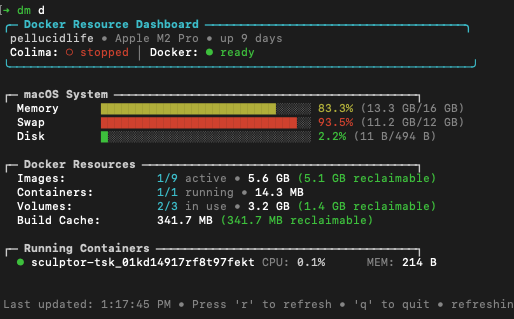
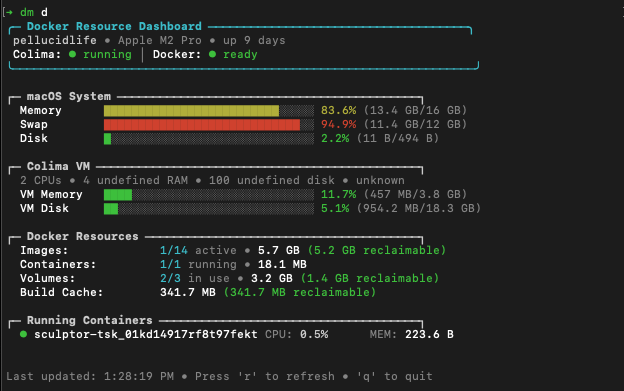
docs: update README with v0.0.1 features and screenshot
- Updated dashboard screenshot showing "Colima: ● running" (fixed status)
- Added new Colima VM metrics screenshot (dm colima command)
- Added section headers for both screenshots
- Minor formatting fix in install.sh

The dashboard screenshot now correctly shows:
- Colima: ● running (2 CPU, 4 undefined RAM)
- Docker: ● ready
- Resource usage with Host Memory, Host Disk, and VM Data Disk
- Cleanup recommendations mentioning dm sculptor

The Colima view screenshot shows:
- VM Resources: CPU Usage 0.0%, Memory 11.8%, Root Disk 5.1%
- Data Disk: 8.6% usage (8.4 GB/97.9 GB) at /mnt/lima-colima
- 84.46 GB available

🤖 Generated with [Claude Code](https://claude.com/claude-code)

diff --git a/bin/components/Header.js b/bin/components/Header.js
@@ -1,9 +1,9 @@
-import React from 'react';
-import { Box, Text } from 'ink';
-export function Header({ hostname, chip, uptime, colimaRunning, dockerRunning }) {
+import React from "react";
+import { Box, Text } from "ink";
+export function Header({ hostname, chip, uptime, colimaRunning, dockerRunning, }) {
     return (React.createElement(Box, { flexDirection: "column", marginBottom: 1 },
         React.createElement(Box, null,
-            React.createElement(Text, { bold: true, color: "cyan" }, "\u256D\u2500 Docker Resource Dashboard \u2500\u2500\u2500\u2500\u2500\u2500\u2500\u2500\u2500\u2500\u2500\u2500\u2500\u2500\u2500\u2500\u2500\u2500\u2500\u2500\u2500\u2500\u2500\u2500\u2500\u2500\u2500\u2500\u2500\u2500\u2500\u2500\u2500\u2500\u2500\u2500\u2500\u256E")),
+            React.createElement(Text, { bold: true, color: "cyan" }, "\u256D\u2500 Docker Resource Dashboard\u2500\u2500\u2500\u2500\u2500\u2500\u2500\u2500\u2500\u2500\u2500\u2500\u2500\u2500\u2500\u2500\u2500\u2500\u2500\u2500\u2500\u2500\u2500\u2500\u2500\u2500\u2500\u2500\u2500\u2500\u2500\u2500\u2500\u2500\u2500\u2500\u2500\u256E")),
         React.createElement(Box, { paddingLeft: 1 },
             React.createElement(Text, { color: "white" }, hostname),
             React.createElement(Text, { color: "gray" }, " \u2022 "),
@@ -17,5 +17,5 @@ export function Header({ hostname, chip, uptime, colimaRunning, dockerRunning })
             React.createElement(Text, null, "Docker: "),
             dockerRunning ? (React.createElement(Text, { color: "green" }, "\u25CF ready")) : (React.createElement(Text, { color: "red" }, "\u25CB unavailable"))),
         React.createElement(Box, null,
-            React.createElement(Text, { color: "cyan" }, "\u2570\u2500\u2500\u2500\u2500\u2500\u2500\u2500\u2500\u2500\u2500\u2500\u2500\u2500\u2500\u2500\u2500\u2500\u2500\u2500\u2500\u2500\u2500\u2500\u2500\u2500\u2500\u2500\u2500\u2500\u2500\u2500\u2500\u2500\u2500\u2500\u2500\u2500\u2500\u2500\u2500\u2500\u2500\u2500\u2500\u2500\u2500\u2500\u2500\u2500\u2500\u2500\u2500\u2500\u2500\u2500\u2500\u2500\u2500\u2500\u2500\u2500\u2500\u2500\u2500\u2500\u2500\u256F"))));
+            React.createElement(Text, { color: "cyan" }, "\u2570\u2500\u2500\u2500\u2500\u2500\u2500\u2500\u2500\u2500\u2500\u2500\u2500\u2500\u2500\u2500\u2500\u2500\u2500\u2500\u2500\u2500\u2500\u2500\u2500\u2500\u2500\u2500\u2500\u2500\u2500\u2500\u2500\u2500\u2500\u2500\u2500\u2500\u2500\u2500\u2500\u2500\u2500\u2500\u2500\u2500\u2500\u2500\u2500\u2500\u2500\u2500\u2500\u2500\u2500\u2500\u2500\u2500\u2500\u2500\u2500\u2500\u2500\u2500\u2500\u256F"))));
 }

diff --git a/src/components/Header.tsx b/src/components/Header.tsx
@@ -1,5 +1,5 @@
-import React from 'react';
-import { Box, Text } from 'ink';
+import React from "react";
+import { Box, Text } from "ink";
 
 interface HeaderProps {
   hostname: string;
@@ -9,17 +9,19 @@ interface HeaderProps {
   dockerRunning: boolean;
 }
 
-export function Header({ 
-  hostname, 
-  chip, 
-  uptime, 
-  colimaRunning, 
-  dockerRunning 
+export function Header({
+  hostname,
+  chip,
+  uptime,
+  colimaRunning,
+  dockerRunning,
 }: HeaderProps): React.ReactElement {
   return (
     <Box flexDirection="column" marginBottom={1}>
       <Box>
-        <Text bold color="cyan">╭─ Docker Resource Dashboard ─────────────────────────────────────╮</Text>
+        <Text bold color="cyan">
+          ╭─ Docker Resource Dashboard─────────────────────────────────────╮
+        </Text>
       </Box>
       <Box paddingLeft={1}>
         <Text color="white">{hostname}</Text>
@@ -44,7 +46,9 @@ export function Header({
         )}
       </Box>
       <Box>
-        <Text color="cyan">╰──────────────────────────────────────────────────────────────────╯</Text>
+        <Text color="cyan">
+          ╰────────────────────────────────────────────────────────────────╯
+        </Text>
       </Box>
     </Box>
   );

diff --git a/bin/utils/colima.js b/bin/utils/colima.js
@@ -6,8 +6,10 @@ export async function getColimaStatus() {
     }
     try {
         const status = JSON.parse(result.stdout);
+        // If JSON parsing succeeds, Colima is running
+        // The status object itself being parseable indicates a running state
         return {
-            running: status.status === 'Running',
+            running: true, // Fixed: successful JSON parse = running
             cpu: status.cpu || 0,
             memory: (status.memory || 0) * 1024 * 1024 * 1024, // GB to bytes
             disk: (status.disk || 0) * 1024 * 1024 * 1024, // GB to bytes
@@ -67,8 +69,9 @@ export function getColimaStatusSync() {
         if (!stdout)
             return null;
         const status = JSON.parse(stdout);
+        // If JSON parsing succeeds, Colima is running
         return {
-            running: status.status === 'Running',
+            running: true, // Fixed: successful JSON parse = running
             cpu: status.cpu || 0,
             memory: (status.memory || 0) * 1024 * 1024 * 1024,
             disk: (status.disk || 0) * 1024 * 1024 * 1024,

diff --git a/bin/components/Header.d.ts b/bin/components/Header.d.ts
@@ -1,4 +1,4 @@
-import React from 'react';
+import React from "react";
 interface HeaderProps {
     hostname: string;
     chip: string;
@@ -6,5 +6,5 @@ interface HeaderProps {
     colimaRunning: boolean;
     dockerRunning: boolean;
 }
-export declare function Header({ hostname, chip, uptime, colimaRunning, dockerRunning }: HeaderProps): React.ReactElement;
+export declare function Header({ hostname, chip, uptime, colimaRunning, dockerRunning, }: HeaderProps): React.ReactElement;
 export {};

diff --git a/README.md b/README.md
@@ -12,7 +12,11 @@
 
 Built with [Ink](https://github.com/vadimdemedes/ink) — the same React-for-CLI framework that powers Claude Code.
 
+### Dashboard View (`dm dashboard`)
 ![Dashboard Screenshot](./assets/dashboard-screenshot.png)
+
+### Colima VM Metrics (`dm colima`)
+![Colima View Screenshot](./assets/colima-view-screenshot.png)
 
 ━━━━━━━━━━━━━━━━━━━━━━━━━━━
 
